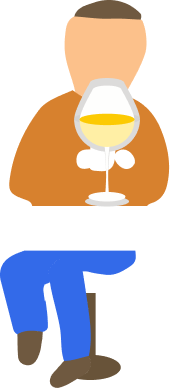
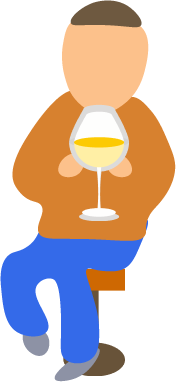
fa

diff --git a/src/assets/css/base.reset.css b/src/assets/css/base.reset.css
@@ -365,9 +365,9 @@ body{
 @media (min-width: 768px) {
   .bg-freeLance{
   position: absolute;
-  top: calc(1180 / 16 * 1rem);
-  right: calc(155 / 16 * 1rem);
-  width: calc(325 / 16 * 1rem);
+  top: calc(1257 / 16* 1rem);
+  right: calc(189 / 16* 1rem);
+  width: calc(325 / 16* 1rem);
 }
 }
 .bg-work{
@@ -436,22 +436,7 @@ body{
   width: calc(420 / 16 * 1rem);
 }
 }
-.bg-green{
-  position: absolute;
-  top: calc(1218 / 16 * 1rem);
-  left: calc(50 / 16 * 1rem);
-  width: calc(254 / 16 * 1rem);
-  transform: rotate(3.25deg);
-}
-@media (min-width: 768px) {
-  .bg-green{
-  position: absolute;
-  top: calc(1931 / 16 * 1rem);
-  left: calc(50 / 16 * 1rem);
-  width: calc(420 / 16 * 1rem);
-  transform: rotate(3.25deg);
-}
-}
+
 /* mv */
 .mv-title{
   font-family: var(--font-family-kaisei);
@@ -720,7 +705,8 @@ body{
   left: calc(754 / 16 * 1rem);
   z-index: 3;
   width: calc(65 / 16 * 1rem);
-  animation: loop_bounce 2.5s infinite;
+  animation: loop_bounce 4.5s infinite;
+  animation-delay: .5s;
 }
 @media (min-width: 768px) {
 .bg-bar4{
@@ -728,7 +714,8 @@ body{
   top: calc(345 / 16 * 1rem);
   left: calc(1154 / 16 * 1rem);
   width: calc(103 / 16 * 1rem);
-  animation: loop_bounce 2.5s infinite;
+  animation: loop_bounce 4.5s infinite;
+    animation-delay: .5s;
 }
 }
 .bg-bar5{
@@ -877,7 +864,19 @@ body{
   width: calc(64 / 16 * 1rem);
   animation: mini-shake 6.5s infinite;
 }
+.bg_wine_table{
+  position: absolute;
+  top: calc(654 / 16 * 1rem);
+  right: calc(320 / 16* 1rem);
+  z-index: 2;
+  width: calc(72 / 16 * 1rem);
+}
 @media (min-width: 768px) {
+.bg_wine_table{
+    top: calc(1073 / 16 * 1rem);
+  right: calc(520 / 16* 1rem);
+  width: calc(112 / 16 * 1rem);
+}
   .bg_bottomTable_chra1{
   top: calc(2211 / 16 * 1rem);
   left: calc(774 / 16 * 1rem);
@@ -1063,6 +1062,9 @@ body{
   -webkit-text-stroke: 1px var(--white);
   color: transparent;
 }
+.globalNav-list{
+  margin-top: 24px;
+}
 .globalNav-title.-first{
   margin-bottom: 24px;
   line-height: 1;
@@ -1076,27 +1078,29 @@ body{
   -webkit-text-stroke: 1px var(--white);
 }
 .globalNav-inner{
+  position: relative;
   width: calc(100% - 100px);
   max-width: 760px;
   height: 100vh;
-  padding-top: calc(170 / 16 * 1rem);
-  padding-bottom: calc(100 / 16 * 1rem);
+  /* padding-top: calc(170 / 16 * 1rem);
+  padding-bottom: calc(100 / 16 * 1rem); */
   margin-inline: auto;
-  overflow: auto;
+
 }
 @media (min-width: 768px) {
+.globalNav-list{
+  margin-top: 24px;
+}
   .globalNav-inner{
   width: calc(100% - 100px);
   max-width: 760px;
-
-  padding-top: calc(214 / 16 * 1rem);
-  padding-bottom: calc(100 / 16 * 1rem);
-
 }
 }
 .globalNav-inner--scroll{
-  height: 100vh;
-  /* overflow: auto; */
+  height: 100%;
+  padding-top: calc(214 / 16 * 1rem);
+  padding-bottom: calc(100 / 16 * 1rem);
+  overflow: auto;
 }
 .globalNav-inner::-webkit-scrollbar{
   overflow: hidden;
@@ -2504,6 +2508,7 @@ img:focus{
   left: 800px;
   z-index: 1;
   width: calc(84 / 16 * 1rem);
+  animation: loop_rotate2 3.5s infinite;
 }
 @media (min-width: 768px) {
   .bar-counter-people3{
@@ -3769,7 +3774,8 @@ display: block;
   position: absolute;
   /* top:  clamp(280px,calc(380 / 1600 * 100vw),380px); */
   top: 380px;
-  right: min(calc(592 / 1600 * 100vw),592px);
+  right: 200px;
+  /* right: min(calc(592 / 1600 * 100vw),592px); */
   z-index: 2;
   display: block;
   width: calc(83 / 1600 * 100vw);
@@ -3782,7 +3788,7 @@ display: block;
   position: absolute;
   /* top: clamp(348px,calc(448 / 1600 * 100vw),448px); */
   top: 313px;
-  right:47px;
+  right:-50px;
   z-index: 2;
   width: calc(80 / 16 * 1rem);
   margin-inline: auto;
@@ -3792,17 +3798,17 @@ display: block;
   .globalNav-people2{
   /* top: clamp(348px,calc(448 / 1600 * 100vw),448px); */
   top: 448px;
-  right: min(calc(339 / 1600 * 100vw),339px);
+  right:-20px;
   z-index: 2;
   width: calc(106 / 1600 * 100vw);
-  max-width: calc(106 / 1600 * 100vw);
+  max-width: 106px;
 }
 }
 .globalNav-table{
   position: absolute;
   /* top: clamp(383px,calc(483 / 1600 * 100vw),483px); */
   top: 376px;
-  right:81px;
+  right:0px;
   z-index: 2;
   width: calc(109 / 16 * 1rem);
   margin-inline: auto;
@@ -3810,7 +3816,7 @@ display: block;
 @media (min-width: 768px) {
   .globalNav-table{
   top: 483px;
-  right: min(calc(500 / 1600 * 100vw),500px);
+  right:100px;
   width: calc(128 / 1600 * 100vw);
   max-width: calc(128 / 16 * 1rem);
 }
@@ -4093,4 +4099,98 @@ display: block;
 .is-shown .is-observer-comment{
   opacity: 1;
   transform: translateY(0);
+}
+.bg-green{
+  position: absolute;
+  top: calc(1218 / 16 * 1rem);
+  left: calc(50 / 16 * 1rem);
+  width: calc(254 / 16 * 1rem);
+  transform: scale(0.7) rotate(12deg);
+}
+@media (min-width: 768px) {
+  .bg-green{
+  position: absolute;
+  top: calc(1931 / 16 * 1rem);
+  left: calc(150 / 16 * 1rem);
+  width: calc(420 / 16 * 1rem);
+  transform: scale(1) rotate(12deg);
+}
+}
+.c-anime__leaf{
+  animation: loop_rotate2 2.5s infinite;
+}
+  .bg-green--brunch{
+    position: absolute;
+    top:0;
+    right: 0;
+    left: 0;
+    width: calc(221 / 16 * 1rem);
+    margin-inline: auto;
+  }
+  .bg-green--leaf01{
+    position: absolute;
+    top:122px;
+    left:130px;
+    width: calc(217 / 16 * 1rem);
+    transform-origin: 30% 30%;
+  animation: gentleRotate 7.5s infinite;
+  animation-delay: 1.5s;
+  }
+  .bg-green--leaf02{
+    position: absolute;
+    top: 130px;
+    left: 80px;
+    width: calc(118 / 16 * 1rem);
+    transform-origin: top center;
+  animation: gentleRotate 7.5s infinite;
+    animation-delay: 3s;
+  }
+  .bg-green--leaf03{
+    position: absolute;
+    top: 90px;
+    left: 0px;
+    width: calc(118 / 16 * 1rem);
+    transform-origin: top center;
+  animation: gentleRotate 7.5s infinite;
+  }
+.bg-green--leaf04{
+  position: absolute;
+  top: 10px;
+  left: 30px;
+  width: calc(126 / 16 * 1rem);
+  transform-origin: top center;
+  animation: gentleRotate 7.5s infinite;
+  animation-delay: 0.5s;
+}
+.bg-green--leaf05{
+  position: absolute;
+  top: 10px;
+  left: 110px;
+  width: calc(126 / 16 * 1rem);
+  transform-origin: top center;
+  animation: gentleRotate 7.5s infinite;
+  animation-delay: 1s;
+}
+.bg-green--leaf06{
+  position: absolute;
+  top: -70px;
+  left: 200px;
+  width: calc(158 / 16 * 1rem);
+  transform-origin: bottom left;
+  animation: gentleRotate 7.5s infinite;
+  animation-delay: 1.2s;
+}
+@keyframes gentleRotate {
+  0% {
+    transform: rotate(0deg);
+  }
+  25% {
+    transform: rotate(3deg);
+  }
+  75% {
+    transform: rotate(-3deg);
+  }
+  100% {
+    transform: rotate(0deg);
+  }
 }
